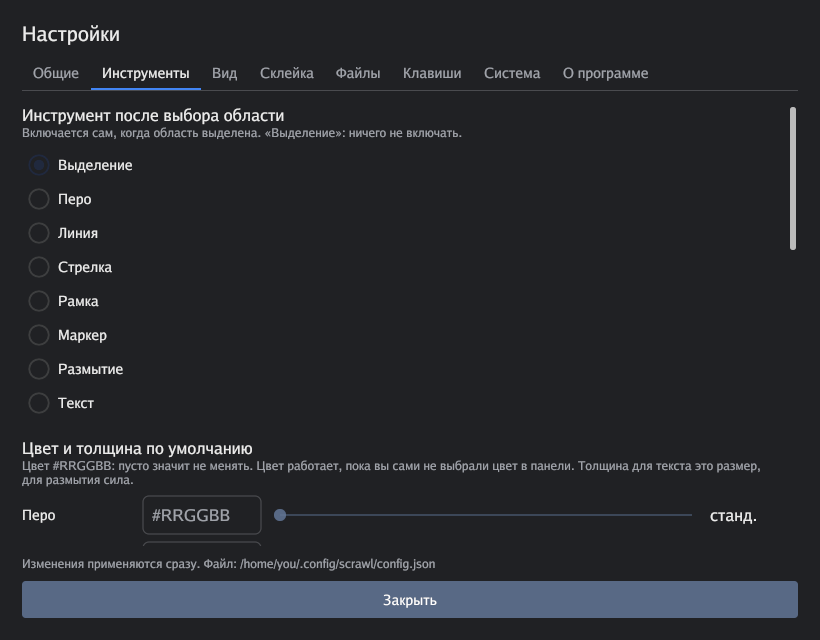
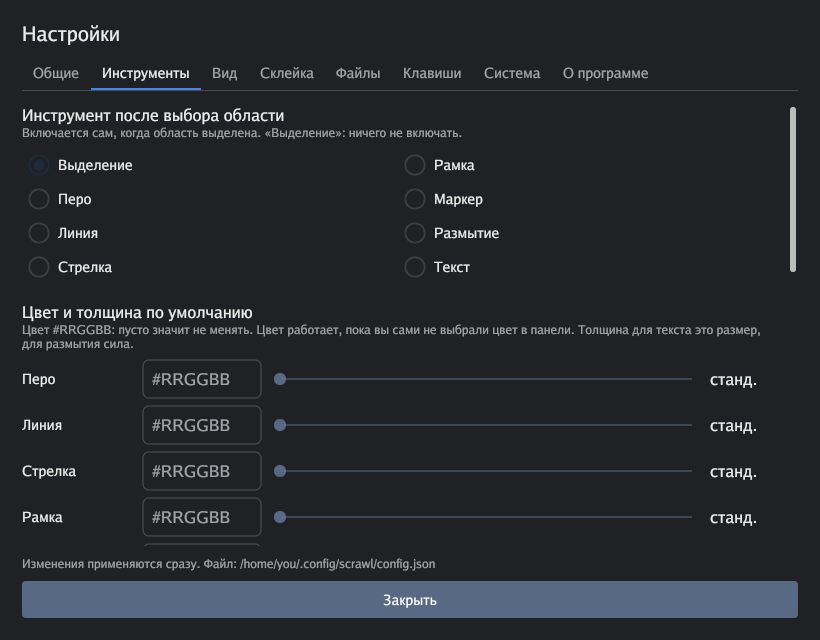
feat: remember the tab, two-column tool choice, font hint, GitHub templates
The settings window opens on the last tab (cache), the tool and language
lists go in two columns, and when a language with ideographs is selected
without a system font, a hint with the install command appears under the list
(translated into all languages). The installer writes in Russian or English
and in X11 does not recommend -setup and -grant-screenshot. Added
CONTRIBUTING.md, a bug report form and a pull request template.

diff --git a/internal/settingsui/settingsui.go b/internal/settingsui/settingsui.go
@@ -117,7 +117,9 @@ func newState(store *settings.Store) *state {
 
 	s := &state{th: th, store: store}
 	s.list.Axis = layout.Vertical
-	s.tabBtns = make([]widget.Clickable, len(s.tabs()))
+	tabs := s.tabs()
+	s.tabBtns = make([]widget.Clickable, len(tabs))
+	s.tab = rememberedTab(tabs) // окно открывается на той вкладке, где закрыли
 	px := func(v float64) string { return fmt.Sprintf("%.1f px", v) }
 	s.dim = s.addSlider(0, 100, 1, func(v float64) string { return fmt.Sprintf("%.0f%%", v) },
 		func(c settings.Settings) float64 { return float64(c.DimPercent) },
@@ -929,11 +931,13 @@ func (s *state) toolChoiceRadios() layout.Widget {
 	for i, name := range settings.ToolNames {
 		items[i] = s.radio(&s.toolChoice, name, i18n.T(toolLabels[i]))
 	}
-	return radios(items...)
+	return radioColumns(2, items...)
 }
 
 // languageRadios — выбор языка двумя столбцами: «как в системе» и все языки по
 // их собственным названиям (их надо узнавать, даже не понимая остального окна).
+// Если выбран язык с иероглифами, а системного шрифта для них нет, под списком
+// подсказка, что поставить.
 func (s *state) languageRadios() layout.Widget {
 	items := []layout.Widget{s.radio(&s.lang, i18n.Auto, i18n.T("Как в системе"))}
 	for _, l := range i18n.Languages {
@@ -943,12 +947,26 @@ func (s *state) languageRadios() layout.Widget {
 		}
 		items = append(items, s.radio(&s.lang, l.Code, name))
 	}
-	half := (len(items) + 1) / 2
+	columns := radioColumns(2, items...)
 	return func(gtx layout.Context) layout.Dimensions {
-		return layout.Flex{}.Layout(gtx,
-			layout.Flexed(1, radios(items[:half]...)),
-			layout.Flexed(1, radios(items[half:]...)),
-		)
+		children := []layout.FlexChild{layout.Rigid(columns)}
+		if lang := i18n.Language(); !fontAvailable(lang) {
+			children = append(children, layout.Rigid(layout.Spacer{Height: unit.Dp(6)}.Layout),
+				layout.Rigid(s.label(material.Caption, i18n.T("Для этого языка нужен шрифт с иероглифами. Установите его: sudo apt install fonts-noto-cjk"), errorColor)))
+		}
+		return layout.Flex{Axis: layout.Vertical}.Layout(gtx, children...)
+	}
+}
+
+// radioColumns раскладывает варианты по столбцам поровну, слева направо.
+func radioColumns(n int, items ...layout.Widget) layout.Widget {
+	per := (len(items) + n - 1) / n
+	return func(gtx layout.Context) layout.Dimensions {
+		var cols []layout.FlexChild
+		for i := 0; i < len(items); i += per {
+			cols = append(cols, layout.Flexed(1, radios(items[i:min(i+per, len(items))]...)))
+		}
+		return layout.Flex{}.Layout(gtx, cols...)
 	}
 }
 
@@ -965,6 +983,7 @@ func radios(items ...layout.Widget) layout.Widget {
 
 // settingsTab — вкладка окна: название и строки настроек в ней.
 type settingsTab struct {
+	id    string // постоянное имя вкладки: по нему запоминается выбор
 	label string
 	rows  []layout.Widget
 }
@@ -1091,14 +1110,14 @@ func (s *state) tabs() []settingsTab {
 	}
 
 	return []settingsTab{
-		{label: i18n.T("Общие"), rows: general},
-		{label: i18n.T("Инструменты"), rows: tools},
-		{label: i18n.T("Вид"), rows: look},
-		{label: i18n.T("Склейка"), rows: glue},
-		{label: i18n.T("Файлы"), rows: files},
-		{label: i18n.T("Клавиши"), rows: keys},
-		{label: i18n.T("Система"), rows: system},
-		{label: i18n.T("О программе"), rows: about},
+		{id: "general", label: i18n.T("Общие"), rows: general},
+		{id: "tools", label: i18n.T("Инструменты"), rows: tools},
+		{id: "look", label: i18n.T("Вид"), rows: look},
+		{id: "glue", label: i18n.T("Склейка"), rows: glue},
+		{id: "files", label: i18n.T("Файлы"), rows: files},
+		{id: "keys", label: i18n.T("Клавиши"), rows: keys},
+		{id: "system", label: i18n.T("Система"), rows: system},
+		{id: "about", label: i18n.T("О программе"), rows: about},
 	}
 }
 
@@ -1131,6 +1150,9 @@ func (s *state) selectTab(i int) {
 	if i != s.tab {
 		s.tab = i
 		s.list.Position = layout.Position{}
+		if tabs := s.tabs(); i >= 0 && i < len(tabs) {
+			saveTab(tabs[i].id)
+		}
 	}
 }
 

diff --git a/internal/settingsui/settingsui_test.go b/internal/settingsui/settingsui_test.go
@@ -25,6 +25,7 @@ import (
 func testState(t *testing.T) *state {
 	t.Helper()
 	t.Setenv("XDG_CONFIG_HOME", t.TempDir())
+	t.Setenv("XDG_CACHE_HOME", t.TempDir()) // запомненная вкладка не должна браться из кэша пользователя
 	return newState(settings.NewStore())
 }
 
@@ -773,6 +774,7 @@ func TestDocSettingsImages(t *testing.T) {
 	for lang, name := range map[string]string{i18n.RU: "settings-ru.png", i18n.EN: "settings-en.png"} {
 		i18n.SetLanguage(lang)
 		t.Setenv("XDG_CONFIG_HOME", "/home/you/.config") // красивый путь в подписи; файл не создаётся
+		t.Setenv("XDG_CACHE_HOME", t.TempDir())
 		s := newState(settings.NewStore())
 		s.selectTab(1) // «Инструменты»: на ней больше всего видно
 		win, err := headless.NewWindow(W, H)
@@ -907,5 +909,42 @@ func TestEveryLanguageCanBeChosen(t *testing.T) {
 	s.layout(frameContext(820, 700))
 	if i18n.Language() != i18n.DE || settings.Load().Language != i18n.Auto {
 		t.Errorf("auto при немецкой локали: действует %q, в файле %q", i18n.Language(), settings.Load().Language)
+	}
+}
+
+func TestLastTabIsRemembered(t *testing.T) {
+	s := testState(t)
+	if s.tab != 0 {
+		t.Fatalf("в чистом кэше окно открывается на первой вкладке: %d", s.tab)
+	}
+	s.selectTab(6) // «Система»
+	again := newState(settings.NewStore())
+	if again.tab != 6 || again.tabs()[again.tab].id != "system" {
+		t.Errorf("после перезапуска ожидали вкладку «system», открыта %d", again.tab)
+	}
+	// Неизвестное имя в файле не ломает окно.
+	saveTab("такой вкладки нет")
+	if got := newState(settings.NewStore()).tab; got != 0 {
+		t.Errorf("неизвестная вкладка: %d", got)
+	}
+}
+
+func TestFontHintShownOnlyWhenFontIsMissing(t *testing.T) {
+	defer i18n.SetLanguage(i18n.RU)
+	old := fontAvailable
+	defer func() { fontAvailable = old }()
+	s := testState(t)
+	i18n.SetLanguage(i18n.ZH)
+
+	measure := func() int {
+		gtx := layout.Context{Ops: new(op.Ops), Constraints: layout.Constraints{Max: image.Pt(800, 2000)}, Metric: unit.Metric{PxPerDp: 1, PxPerSp: 1}}
+		return s.languageRadios()(gtx).Size.Y
+	}
+	fontAvailable = func(string) bool { return true }
+	without := measure()
+	fontAvailable = func(string) bool { return false }
+	with := measure()
+	if with <= without {
+		t.Errorf("без шрифта под списком должна быть подсказка: высота %d и %d", with, without)
 	}
 }

diff --git a/internal/settingsui/lasttab.go b/internal/settingsui/lasttab.go
@@ -1,0 +1,40 @@
+package settingsui
+
+import (
+	"os"
+	"path/filepath"
+	"strings"
+)
+
+// lastTabPath — файл, где помнится вкладка, на которой закрыли окно настроек.
+func lastTabPath() string {
+	dir, err := os.UserCacheDir()
+	if err != nil {
+		dir = os.TempDir()
+	}
+	return filepath.Join(dir, "scrawl", "settings-tab")
+}
+
+// rememberedTab возвращает номер запомненной вкладки или 0, если её нет или такой
+// вкладки больше нет.
+func rememberedTab(tabs []settingsTab) int {
+	data, err := os.ReadFile(lastTabPath())
+	if err != nil {
+		return 0
+	}
+	id := strings.TrimSpace(string(data))
+	for i, t := range tabs {
+		if t.id == id {
+			return i
+		}
+	}
+	return 0
+}
+
+// saveTab запоминает вкладку; ошибка записи не важна.
+func saveTab(id string) {
+	path := lastTabPath()
+	if os.MkdirAll(filepath.Dir(path), 0o700) == nil {
+		os.WriteFile(path, []byte(id+"\n"), 0o600)
+	}
+}

diff --git a/internal/i18n/lang_ja.go b/internal/i18n/lang_ja.go
@@ -274,4 +274,5 @@ var ja = map[string]string{
 	"Экран снимается напрямую, без портала: выбирать мониторы и выдавать разрешение не нужно. Для буфера обмена нужен xclip.": "画面はポータルを使わず直接取得されます。モニターの選択も権限の付与も不要です。クリップボードには xclip が必要です。",
 	"Файлы":   "ファイル",
 	"Система": "システム",
+	"Для этого языка нужен шрифт с иероглифами. Установите его: sudo apt install fonts-noto-cjk": "この言語には漢字のフォントが必要です。インストールしてください: sudo apt install fonts-noto-cjk",
 }

diff --git a/internal/i18n/lang_ko.go b/internal/i18n/lang_ko.go
@@ -274,4 +274,5 @@ var ko = map[string]string{
 	"Экран снимается напрямую, без портала: выбирать мониторы и выдавать разрешение не нужно. Для буфера обмена нужен xclip.": "화면은 포털 없이 직접 캡처됩니다: 모니터를 선택하거나 권한을 부여할 필요가 없습니다. 클립보드에는 xclip이 필요합니다.",
 	"Файлы":   "파일",
 	"Система": "시스템",
+	"Для этого языка нужен шрифт с иероглифами. Установите его: sudo apt install fonts-noto-cjk": "이 언어에는 한자와 한글이 들어 있는 글꼴이 필요합니다. 설치하세요: sudo apt install fonts-noto-cjk",
 }

diff --git a/internal/i18n/lang_de.go b/internal/i18n/lang_de.go
@@ -274,4 +274,5 @@ var de = map[string]string{
 	"Экран снимается напрямую, без портала: выбирать мониторы и выдавать разрешение не нужно. Для буфера обмена нужен xclip.": "Der Bildschirm wird direkt aufgenommen, ohne Portal: Monitore wählen und Berechtigungen erteilen ist nicht nötig. Die Zwischenablage braucht xclip.",
 	"Файлы":   "Dateien",
 	"Система": "System",
+	"Для этого языка нужен шрифт с иероглифами. Установите его: sudo apt install fonts-noto-cjk": "Für diese Sprache wird eine Schrift mit Schriftzeichen gebraucht. Installieren: sudo apt install fonts-noto-cjk",
 }

diff --git a/internal/i18n/lang_fr.go b/internal/i18n/lang_fr.go
@@ -274,4 +274,5 @@ var fr = map[string]string{
 	"Экран снимается напрямую, без портала: выбирать мониторы и выдавать разрешение не нужно. Для буфера обмена нужен xclip.": "L'écran est capturé directement, sans portail : inutile de choisir les écrans ou d'accorder une autorisation. Le presse-papiers demande xclip.",
 	"Файлы":   "Fichiers",
 	"Система": "Système",
+	"Для этого языка нужен шрифт с иероглифами. Установите его: sudo apt install fonts-noto-cjk": "Cette langue demande une police avec idéogrammes. Installez-la : sudo apt install fonts-noto-cjk",
 }

diff --git a/internal/i18n/lang_pt.go b/internal/i18n/lang_pt.go
@@ -274,4 +274,5 @@ var pt = map[string]string{
 	"Экран снимается напрямую, без портала: выбирать мониторы и выдавать разрешение не нужно. Для буфера обмена нужен xclip.": "A tela é capturada diretamente, sem portal: não é preciso escolher monitores nem conceder permissão. A área de transferência precisa do xclip.",
 	"Файлы":   "Arquivos",
 	"Система": "Sistema",
+	"Для этого языка нужен шрифт с иероглифами. Установите его: sudo apt install fonts-noto-cjk": "Este idioma precisa de uma fonte com ideogramas. Instale: sudo apt install fonts-noto-cjk",
 }

diff --git a/internal/i18n/lang_es.go b/internal/i18n/lang_es.go
@@ -274,4 +274,5 @@ var es = map[string]string{
 	"Экран снимается напрямую, без портала: выбирать мониторы и выдавать разрешение не нужно. Для буфера обмена нужен xclip.": "La pantalla se captura directamente, sin portal: no hace falta elegir monitores ni conceder permisos. El portapapeles necesita xclip.",
 	"Файлы":   "Archivos",
 	"Система": "Sistema",
+	"Для этого языка нужен шрифт с иероглифами. Установите его: sudo apt install fonts-noto-cjk": "Este idioma necesita una fuente con ideogramas. Instálala: sudo apt install fonts-noto-cjk",
 }

diff --git a/internal/i18n/en.go b/internal/i18n/en.go
@@ -275,4 +275,5 @@ var en = map[string]string{
 	"Экран снимается напрямую, без портала: выбирать мониторы и выдавать разрешение не нужно. Для буфера обмена нужен xclip.": "The screen is captured directly, without a portal: there is no need to pick monitors or grant a permission. The clipboard needs xclip.",
 	"Файлы":   "Files",
 	"Система": "System",
+	"Для этого языка нужен шрифт с иероглифами. Установите его: sudo apt install fonts-noto-cjk": "This language needs a font with ideographs. Install it: sudo apt install fonts-noto-cjk",
 }

diff --git a/internal/i18n/lang_zh.go b/internal/i18n/lang_zh.go
@@ -274,4 +274,5 @@ var zh = map[string]string{
 	"Экран снимается напрямую, без портала: выбирать мониторы и выдавать разрешение не нужно. Для буфера обмена нужен xclip.": "屏幕被直接捕获，不经过 portal：无需选择显示器，也无需授予权限。剪贴板需要 xclip。",
 	"Файлы":   "文件",
 	"Система": "系统",
+	"Для этого языка нужен шрифт с иероглифами. Установите его: sudo apt install fonts-noto-cjk": "此语言需要含汉字的字体。请安装：sudo apt install fonts-noto-cjk",
 }

diff --git a/internal/settingsui/tasks.go b/internal/settingsui/tasks.go
@@ -9,6 +9,7 @@ import (
 	"gioui.org/widget/material"
 
 	"github.com/jexme/scrawl/internal/autostart"
+	"github.com/jexme/scrawl/internal/fonts"
 	"github.com/jexme/scrawl/internal/hotkey"
 	"github.com/jexme/scrawl/internal/screencast"
 	"github.com/jexme/scrawl/internal/update"
@@ -20,6 +21,7 @@ import (
 // подменяют их, чтобы не трогать настройки системы.
 var (
 	x11Session      = x11capture.IsSession
+	fontAvailable   = fonts.Available
 	grantPermission = screencast.GrantScreenshotPermission
 	setupMonitors   = screencast.SetupMonitors
 	assignHotkey    = hotkey.Assign
